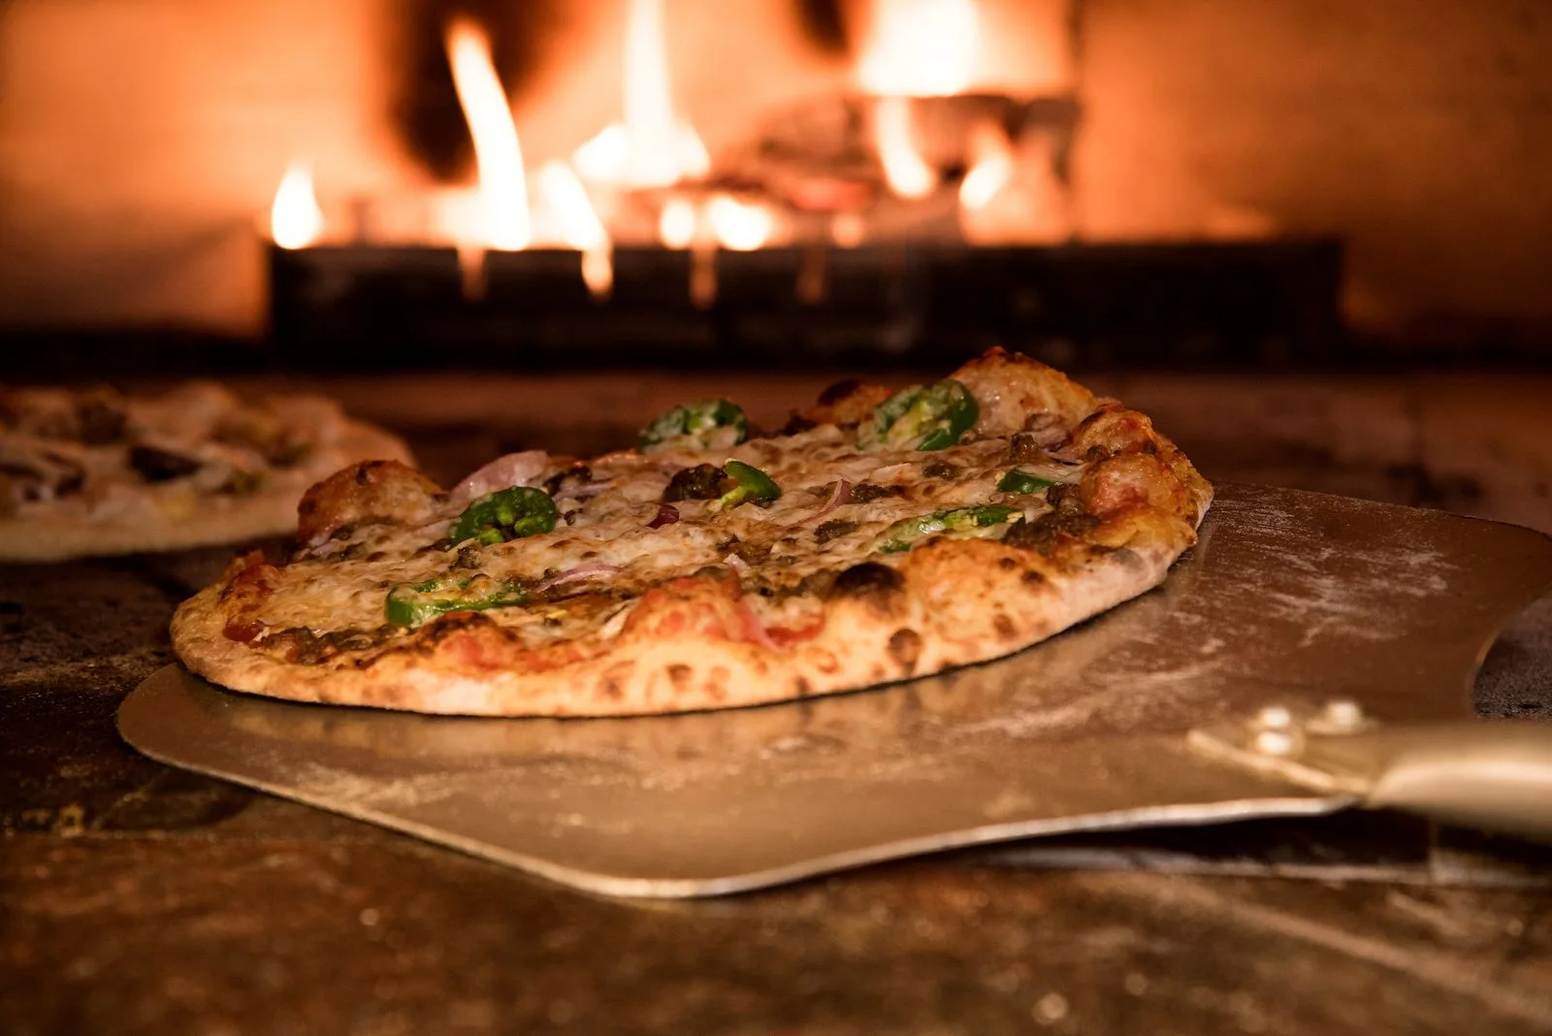
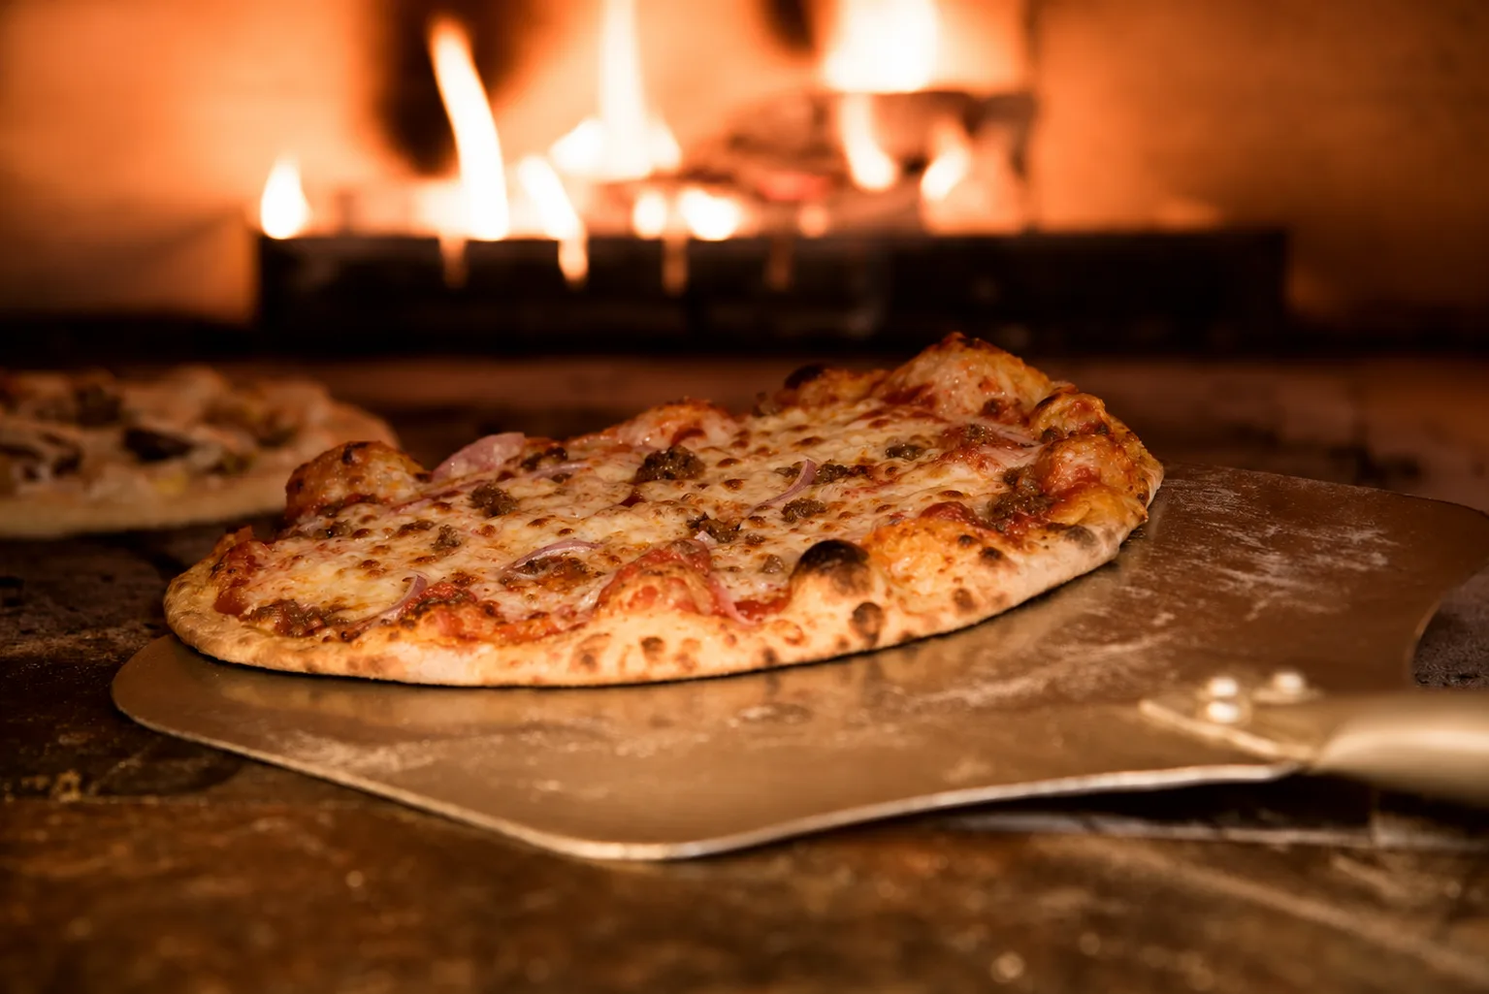
Use current Toast menu, refine responsive layout and edit pizza hero

diff --git a/index.html b/index.html
@@ -15,17 +15,17 @@
 <link rel="stylesheet" href="styles.css">
 <script src="script.js" defer>
 </script>
-<script type="application/ld+json">{"@context": "https://schema.org", "@type": "Restaurant", "name": "Cascarino\u2019s Brick Oven Pizzeria & Ristorante", "telephone": "+1-718-746-4370", "address": {"@type": "PostalAddress", "streetAddress": "152-59 10th Avenue", "addressLocality": "Whitestone", "addressRegion": "NY", "postalCode": "11357", "addressCountry": "US"}, "servesCuisine": ["Pizza", "Italian"], "hasMenu": "https://www.cascarinosmenu.com/"}</script>
+<script type="application/ld+json">{"@context": "https://schema.org", "@type": "Restaurant", "name": "Cascarino\u2019s Brick Oven Pizzeria & Ristorante", "telephone": "+1-718-746-4370", "address": {"@type": "PostalAddress", "streetAddress": "152-59 10th Avenue", "addressLocality": "Whitestone", "addressRegion": "NY", "postalCode": "11357", "addressCountry": "US"}, "servesCuisine": ["Pizza", "Italian"], "hasMenu": "https://toast.app/r/cascarinos-brick-oven-pizzeria-ristorante-152-59-10th-ave/order"}</script>
 </head>
 <body>
 <a href="#main" class="skip">Skip to content</a>
-<header class="header"><a class="wordmark" href="index.html">Cascarino’s<span>WHITESTONE, QUEENS</span></a><nav class="desktop-nav" aria-label="Main navigation"><a href="#menu">Menu</a><a href="#table">Group orders</a><a href="#visit">Visit</a><a href="tel:+17187464370">718 746 4370</a></nav><a class="button header-order" href="https://www.cascarinosmenu.com/">Order online</a><button class="menu-toggle" aria-controls="mobile-nav" aria-expanded="false">Menu +</button><nav id="mobile-nav" class="mobile-nav" aria-label="Mobile navigation" hidden><a href="#menu">Menu</a><a href="#table">Group orders</a><a href="#visit">Visit</a><a href="tel:+17187464370">Call 718 746 4370</a><a href="https://www.cascarinosmenu.com/">Order online</a></nav></header>
+<header class="header"><a class="wordmark" href="index.html">Cascarino’s<span>WHITESTONE, QUEENS</span></a><nav class="desktop-nav" aria-label="Main navigation"><a href="#menu">Menu</a><a href="#table">Group orders</a><a href="#visit">Visit</a><a href="tel:+17187464370">718 746 4370</a></nav><a class="button header-order" href="https://toast.app/r/cascarinos-brick-oven-pizzeria-ristorante-152-59-10th-ave/order">Order on Toast</a><button class="menu-toggle" aria-controls="mobile-nav" aria-expanded="false">Menu +</button><nav id="mobile-nav" class="mobile-nav" aria-label="Mobile navigation" hidden><a href="#menu">Menu</a><a href="#table">Group orders</a><a href="#visit">Visit</a><a href="tel:+17187464370">Call 718 746 4370</a><a href="https://toast.app/r/cascarinos-brick-oven-pizzeria-ristorante-152-59-10th-ave/order">Order on Toast</a></nav></header>
 <main id="main">
-<section class="hero" aria-labelledby="hero-title"><div class="hero-title"><p class="eyebrow">BRICK OVEN PIZZERIA & RISTORANTE</p><h1 id="hero-title">Pizza.<br>Pasta.<br><i>Cascarino’s.</i></h1><div class="hero-bottom"><p>152-59 10th Avenue<br>Whitestone, New York</p><a href="#menu" class="text-link">Explore the menu <span aria-hidden="true">↓</span></a></div></div><figure class="hero-art"><img src="assets/oven.webp" alt="Illustrative food photography: pizza baking in a wood-fired oven" width="1600" height="1068" fetchpriority="high"><figcaption>BRICK OVEN PIZZA · ITALIAN FAVORITES</figcaption></figure></section>
-<div class="service-strip"><span>TAKEOUT</span><span>DELIVERY</span><span>DINE IN</span><a href="https://www.cascarinosmenu.com/">Order from the full menu <span aria-hidden="true">↗</span></a></div>
-<section class="menu-section section-pad" id="menu" aria-labelledby="menu-title"><div class="section-heading"><p class="eyebrow">ON THE MENU</p><h2 id="menu-title">The pie you know.<br>The plate you came for.</h2><p>Cheese pies, Grandma squares, pasta and Italian-American favorites. Browse a few selections below, or head straight to the full menu.</p></div><div class="menu-layout"><div class="menu-browser"><div class="filters" role="group" aria-label="Choose a menu category"><button class="filter active" data-category="pizza" aria-pressed="true">Pizza</button><button class="filter" data-category="pasta" aria-pressed="false">Pasta & plates</button><button class="filter" data-category="sides" aria-pressed="false">Starters & sweets</button></div><div id="menu-list" aria-live="polite" aria-atomic="true"></div><p class="menu-footnote">Current prices, sizes and availability are on the ordering menu. For food allergies, please call before ordering.</p><a class="button" href="https://www.cascarinosmenu.com/">View full menu & order</a><noscript><p>Browse the full menu using the link above, or call (718) 746-4370.</p></noscript></div><figure class="menu-photo"><img src="assets/pasta.webp" alt="Illustrative food photography: a plate of tomato pasta" width="1600" height="1065" loading="lazy"><figcaption>PIZZERIA & RISTORANTE</figcaption></figure></div></section>
-<section class="table-section" id="table" aria-labelledby="table-title"><div class="table-copy"><p class="eyebrow">FEEDING A FEW MORE?</p><h2 id="table-title">Make it<br>a table full.</h2><p>Ordering for family, friends or the office? Call us to talk through the food, quantities and pickup timing.</p><a class="button light" href="tel:+17187464370">Call about a group order</a><a class="table-phone" href="tel:+17187464370">718 746 4370</a></div><figure class="table-photo"><img src="assets/dough.webp" alt="Illustrative food photography: preparing pizza dough by hand" width="1060" height="1600" loading="lazy"></figure></section>
+<section class="hero" aria-labelledby="hero-title"><div class="hero-title"><p class="eyebrow">BRICK OVEN PIZZERIA & RISTORANTE</p><h1 id="hero-title">Pizza.<br>Pasta.<br><i>Cascarino’s.</i></h1><div class="hero-bottom"><p>152-59 10th Avenue<br>Whitestone, New York</p><a href="#menu" class="text-link">Explore the menu <span aria-hidden="true">↓</span></a></div></div><figure class="hero-art"><img src="assets/oven.webp" alt="Illustrative food photography: pizza baking in a wood-fired oven" width="1536" height="1024" fetchpriority="high"><figcaption>BRICK OVEN PIZZA · ITALIAN FAVORITES</figcaption></figure></section>
+<div class="service-strip"><span>TAKEOUT</span><span>DELIVERY</span><span>DINE IN</span><a href="https://toast.app/r/cascarinos-brick-oven-pizzeria-ristorante-152-59-10th-ave/order">Pickup & delivery on Toast <span aria-hidden="true">↗</span></a></div>
+<section class="menu-section section-pad" id="menu" aria-labelledby="menu-title"><div class="section-heading"><p class="eyebrow">ON THE MENU</p><h2 id="menu-title">Pizza, pasta<br>and the rest.</h2><p>Browse a selection from our Toast menu. Choose pickup or delivery when you order.</p></div><div class="menu-layout"><div class="menu-browser"><div class="filters" role="group" aria-label="Choose a menu category"><button class="filter active" data-category="pizza" aria-pressed="true">Pizza</button><button class="filter" data-category="pasta" aria-pressed="false">Pasta & plates</button><button class="filter" data-category="sides" aria-pressed="false">Starters & sweets</button></div><div id="menu-list" aria-live="polite" aria-atomic="true"></div><p class="menu-footnote">Menu selection checked November 15, 2026. Current prices, sizes and availability are on Toast. For food allergies, please call before ordering.</p><a class="button" href="https://toast.app/r/cascarinos-brick-oven-pizzeria-ristorante-152-59-10th-ave/order">Full menu & ordering on Toast</a><noscript><p>Browse the full menu using the link above, or call (718) 746-4370.</p></noscript></div><figure class="menu-photo"><img src="assets/pasta.webp" alt="Illustrative food photography: a plate of tomato pasta" width="1600" height="1065" loading="lazy"><figcaption>PIZZERIA & RISTORANTE</figcaption></figure></div></section>
+<section class="table-section" id="table" aria-labelledby="table-title"><div class="table-copy"><p class="eyebrow">FEEDING A FEW MORE?</p><h2 id="table-title">For your<br>whole table.</h2><p>Ordering for family, friends or the office? Call us to talk through the food, quantities and pickup timing.</p><a class="button light" href="tel:+17187464370">Call about a group order</a><a class="table-phone" href="tel:+17187464370">718 746 4370</a></div><figure class="table-photo"><img src="assets/dough.webp" alt="Illustrative food photography: preparing pizza dough by hand" width="1060" height="1600" loading="lazy"></figure></section>
 <section id="visit" class="visit section-pad" aria-labelledby="visit-title"><div><p class="eyebrow">FIND US IN WHITESTONE</p><h2 id="visit-title">On 10th Avenue.</h2></div><div class="visit-details"><address>152-59 10th Avenue<br>Whitestone, NY 11357</address><p>Online ordering: daily, 10:45 AM–8:45 PM.<br>Call to confirm dine-in and holiday hours.</p><div class="visit-actions"><a class="button" href="https://www.google.com/maps/search/?api=1&query=Cascarinos+152-59+10th+Ave+Whitestone+NY+11357">Get directions</a><a class="text-link" href="tel:+17187464370">718 746 4370</a></div></div></section>
-<section class="final-cta"><p>TAKEOUT OR DELIVERY</p><a href="https://www.cascarinosmenu.com/">Dinner starts here. <span aria-hidden="true">↗</span></a></section>
-</main><footer><a class="wordmark" href="index.html">Cascarino’s<span>BRICK OVEN PIZZERIA & RISTORANTE</span></a><div class="footer-bottom"><span>© <span id="year">2026</span> Cascarino’s</span><div><a href="privacy.html">Privacy</a><a href="accessibility.html">Accessibility</a><a href="#main">Back to top ↑</a></div></div><p class="photo-note">Editorial food photographs are illustrative, not photographs of Cascarino’s dishes or kitchen. <a href="photography.html">Photo credits</a></p></footer><div class="mobile-order"><a href="tel:+17187464370">Call</a><a href="https://www.cascarinosmenu.com/">Order online</a></div>
+<section class="final-cta"><p>TAKEOUT OR DELIVERY</p><a href="https://toast.app/r/cascarinos-brick-oven-pizzeria-ristorante-152-59-10th-ave/order">Dinner starts here. <span aria-hidden="true">↗</span></a></section>
+</main><footer><a class="wordmark" href="index.html">Cascarino’s<span>BRICK OVEN PIZZERIA & RISTORANTE</span></a><div class="footer-bottom"><span>© <span id="year">2026</span> Cascarino’s</span><div><a href="privacy.html">Privacy</a><a href="accessibility.html">Accessibility</a><a href="#main">Back to top ↑</a></div></div><p class="photo-note">Editorial food photographs are illustrative, not photographs of Cascarino’s dishes or kitchen. <a href="photography.html">Photo credits</a></p></footer><div class="mobile-order"><a href="tel:+17187464370">Call</a><a href="https://toast.app/r/cascarinos-brick-oven-pizzeria-ristorante-152-59-10th-ave/order">Order on Toast</a></div>
 </body></html>

diff --git a/styles.css b/styles.css
@@ -4,3 +4,13 @@
 @media(max-width:760px){html{scroll-padding-top:90px}.header{padding:18px 22px;gap:12px}.wordmark{font-size:31px}.wordmark span{font-size:7px}.desktop-nav,.header-order{display:none}.menu-toggle{display:block;border:1px solid var(--line);background:transparent;padding:10px 15px;min-height:44px;font-size:12px}.mobile-nav{position:absolute;top:100%;left:0;right:0;background:var(--paper);padding:18px 22px;box-shadow:0 20px 25px #0001}.mobile-nav a{display:block;padding:13px 0;border-bottom:1px solid var(--line)}.hero{display:flex;flex-direction:column;min-height:0}.hero-title{padding:34px 22px 30px}.hero h1{font-size:clamp(73px,15.5vw,115px);line-height:.88;margin:26px 0}.hero h1 br:nth-of-type(1){display:none}.hero-bottom{flex-direction:row;align-items:end;gap:15px}.hero-bottom p{font-size:11px}.hero-bottom .text-link{font-size:11px;gap:15px}.hero-art{height:390px;min-height:0;margin:0 14px 14px}.hero-art figcaption{padding:45px 20px 20px;font-size:9px}.service-strip{flex-wrap:wrap;padding:20px 22px;gap:18px;font-size:10px;justify-content:space-between}.service-strip a{width:100%;padding-top:15px;border-top:1px solid var(--line)}.section-pad{padding:55px 22px}.section-heading{display:block;margin-bottom:30px}.section-heading h2{font-size:48px;margin:18px 0}.section-heading>p:last-child{font-size:13px;max-width:420px}.menu-layout{display:flex;flex-direction:column-reverse;gap:30px}.menu-photo img{min-height:0;height:330px;object-position:50% 47%}.filters{gap:22px}.filter{font-size:12px}.menu-item{padding:18px 0}.menu-item h3{font-size:27px}.menu-item p{font-size:12px}.table-section{grid-template-columns:1fr}.table-copy{padding:50px 22px}.table-copy h2{font-size:70px}.table-photo{height:370px}.table-photo img{object-position:50% 40%}.visit{grid-template-columns:1fr;gap:30px}.visit h2{font-size:52px}.visit address{font-size:29px}.visit-actions{gap:22px}.final-cta{display:block;padding:40px 22px}.final-cta>a{display:block;margin-top:20px;font-size:47px}footer{padding:40px 22px 110px}.footer-bottom{flex-direction:column;gap:20px}.photo-note{font-size:10px}.mobile-order{display:flex;position:fixed;bottom:0;left:0;right:0;z-index:25;background:var(--paper);border-top:1px solid var(--line);padding:10px 14px calc(10px + env(safe-area-inset-bottom));gap:10px}.mobile-order a{flex:1;text-align:center;border:1px solid var(--red);color:var(--red);padding:12px;font-size:13px;font-weight:700}.mobile-order a:last-child{flex:2;background:var(--red);color:white}.legal h1{font-size:50px}}
 @media(max-width:380px){.hero h1{font-size:72px}.hero h1 br:nth-of-type(1){display:block}.hero-art{height:320px}.filters{gap:15px}.filter{font-size:11px}.visit-actions{gap:15px}.footer-bottom>div{gap:16px}}
 @media(prefers-reduced-motion:reduce){html{scroll-behavior:auto}*,*:before,*:after{animation:none!important;transition:none!important}}
+
+/* Responsive polish: readable wrapping, safe fixed controls, restrained motion. */
+.hero-art img,.table-photo img,.menu-photo img{transition:transform .7s cubic-bezier(.2,.7,.2,1)}
+@media(hover:hover) and (prefers-reduced-motion:no-preference){.hero-art:hover img,.table-photo:hover img,.menu-photo:hover img{transform:scale(1.025)}}
+.button:active,.mobile-order a:active{transform:translateY(1px)}
+.hero-title,.menu-browser,.visit-details,.table-copy{min-width:0}
+.menu-item h3{overflow-wrap:anywhere;padding-right:28px}
+@media(max-width:760px){.hero h1{font-size:clamp(66px,14vw,105px)}.hero-art{height:clamp(280px,84vw,440px)}.hero-art img{object-position:52% 50%}.filters{gap:8px 22px}.filter{min-height:48px}.mobile-order a{min-height:48px}.menu-toggle{min-width:64px}.hero-bottom{flex-wrap:wrap}.mobile-nav{max-height:calc(100dvh - 160px);overflow:auto}.menu-photo img{height:clamp(260px,80vw,390px)}.final-cta>a{overflow-wrap:anywhere}}
+@media(max-width:380px){.hero h1{font-size:66px}.hero-title{padding-top:28px}.wordmark{font-size:28px}.header{padding-inline:18px}}
+@media(prefers-reduced-motion:reduce){.hero-art img,.table-photo img,.menu-photo img{transform:none!important;transition:none!important}}

diff --git a/script.js b/script.js
@@ -1,5 +1,5 @@
 'use strict';
-const categories={pizza:[['Cheese Pizza','The classic starting point.'],['Margherita','Tomato, mozzarella and basil.'],['Cascarino’s Famous Grandma','A square-pie favorite from the menu.'],['MVP Grandma','Marinara, vodka and pesto on one pie.']],pasta:[['Penne Vodka','A familiar favorite for pasta night.'],['Linguine with Clams','Choose red or white sauce.'],['Chicken Scarpariello','An Italian-American dinner classic.'],['Homemade Lasagna','For when only baked pasta will do.']],sides:[['Garlic Knots','Start with something for the table.'],['Calamari Fritti','With marinara or fra diavolo.'],['Cannoli','A little sweetness to finish.'],['Tiramisu','Save the last forkful for yourself.']]};
+const categories={pizza:[['16” Cheese Pizza','A classic cheese pie.'],['Margherita Pizza','From the specialty pizza selection.'],['Grandma Pizza','A square pie from the Toast menu.'],['Vodka Grandma Pizza','A vodka-sauce square pie.']],pasta:[['Penne Vodka','Available on the current Toast menu.'],['Spicy Rigatoni','For a pasta order with a little heat.'],['Homemade Lasagna','A baked pasta favorite.'],['Chicken Parmigiana','An Italian-American classic.']],sides:[['Arancini','Start with something for the table.'],['Calamari Fritti','From the appetizer selection.'],['Garlic Knots','Add a side to your order.'],['Cannoli & Tiramisu','Something sweet to finish.']]};
 const list=document.getElementById('menu-list');
 function showMenu(category){if(!list||!categories[category])return;list.replaceChildren(...categories[category].map((item,i)=>{const article=document.createElement('article');article.className='menu-item';const number=document.createElement('span');number.className='item-number';number.textContent=`0${i+1}`;number.setAttribute('aria-hidden','true');const title=document.createElement('h3');title.textContent=item[0];const description=document.createElement('p');description.textContent=item[1];article.append(number,title,description);return article;}));document.querySelectorAll('.filter').forEach(button=>{const active=button.dataset.category===category;button.classList.toggle('active',active);button.setAttribute('aria-pressed',String(active));});}
 document.querySelectorAll('.filter').forEach(button=>button.addEventListener('click',()=>showMenu(button.dataset.category)));showMenu('pizza');
@@ -7,3 +7,9 @@ const toggle=document.querySelector('.menu-toggle'),nav=document.getElementById(
 function closeMenu(restoreFocus=false){if(!toggle||!nav)return;toggle.setAttribute('aria-expanded','false');nav.hidden=true;if(restoreFocus)toggle.focus();}
 if(toggle&&nav){toggle.addEventListener('click',()=>{const open=toggle.getAttribute('aria-expanded')==='true';toggle.setAttribute('aria-expanded',String(!open));nav.hidden=open;});nav.querySelectorAll('a').forEach(a=>a.addEventListener('click',()=>closeMenu()));document.addEventListener('keydown',event=>{if(event.key==='Escape')closeMenu(true);});document.addEventListener('click',event=>{if(!event.target.closest('.header'))closeMenu();});window.matchMedia('(min-width: 761px)').addEventListener('change',event=>{if(event.matches)closeMenu();});}
 const year=document.getElementById('year');if(year)year.textContent=new Date().getFullYear();
+
+const motion=window.matchMedia?.('(prefers-reduced-motion: reduce)');
+if(!motion?.matches && typeof IntersectionObserver !== 'undefined'){
+ const observer=new IntersectionObserver(entries=>{entries.forEach(entry=>{if(entry.isIntersecting){entry.target.animate([{transform:'translateY(18px)'},{transform:'translateY(0)'}],{duration:550,easing:'cubic-bezier(.2,.7,.2,1)'});observer.unobserve(entry.target);}})},{threshold:.12});
+ document.querySelectorAll('.section-heading,.table-copy,.visit-details').forEach(el=>observer.observe(el));
+}

diff --git a/photography.html b/photography.html
@@ -1,1 +1,1 @@
-<!doctype html><html lang="en"><head><meta charset="utf-8"><meta name="viewport" content="width=device-width,initial-scale=1"><meta name="robots" content="noindex,nofollow"><title>Photography | Cascarino’s</title><link rel="stylesheet" href="styles.css"></head><body><main class="legal"><a href="index.html">Back to Cascarino’s</a><h1>Photography</h1><p>The editorial food photographs on this site are illustrative. They are not photographs of Cascarino’s dishes, staff or kitchen.</p><h2>Photo credits</h2><p>Pizza in the oven: <a href="https://www.pexels.com/photo/baked-pizza-on-pizza-peel-in-oven-905847/">Eneida Nieves / Pexels</a>.</p><p>Pasta: <a href="https://www.pexels.com/photo/penne-all-amatriciana-pasta-food-tomaten-11654235/">adrian vieriu / Pexels</a>.</p><p>Preparing dough: <a href="https://unsplash.com/photos/person-holding-dough-4yzEtTQLdL4">Arturrro / Unsplash</a>.</p><p>Used under the <a href="https://www.pexels.com/license/">Pexels license</a> and <a href="https://unsplash.com/license">Unsplash license</a>. No endorsement by the photographers is implied.</p></main></body></html>
+<!doctype html><html lang="en"><head><meta charset="utf-8"><meta name="viewport" content="width=device-width,initial-scale=1"><meta name="robots" content="noindex,nofollow"><title>Photography | Cascarino’s</title><link rel="stylesheet" href="styles.css"></head><body><main class="legal"><a href="index.html">Back to Cascarino’s</a><h1>Photography</h1><p>The editorial food photographs on this site are illustrative. They are not photographs of Cascarino’s dishes, staff or kitchen.</p><h2>Photo credits</h2><p>Pizza in the oven: <a href="https://www.pexels.com/photo/baked-pizza-on-pizza-peel-in-oven-905847/">Eneida Nieves / Pexels</a>. The hero image was edited with AI to remove green vegetable toppings; it remains illustrative, not a photograph of a Cascarino’s dish.</p><p>Pasta: <a href="https://www.pexels.com/photo/penne-all-amatriciana-pasta-food-tomaten-11654235/">adrian vieriu / Pexels</a>.</p><p>Preparing dough: <a href="https://unsplash.com/photos/person-holding-dough-4yzEtTQLdL4">Arturrro / Unsplash</a>.</p><p>Used under the <a href="https://www.pexels.com/license/">Pexels license</a> and <a href="https://unsplash.com/license">Unsplash license</a>. No endorsement by the photographers is implied.</p></main></body></html>

diff --git a/menu.html b/menu.html
@@ -13,7 +13,7 @@
 <h1>The menu</h1>
 <p>Explore brick oven pies, squares, Italian favorites and dessert.</p>
 <p>
-<a class="button" href="https://www.cascarinosmenu.com/">View the current menu & order ↗</a>
+<a class="button" href="https://toast.app/r/cascarinos-brick-oven-pizzeria-ristorante-152-59-10th-ave/order">View the current menu & order ↗</a>
 </p>
 <p>For questions about food allergies, call <a href="tel:+17187464370">(718) 746-4370</a> before ordering.</p>
 </main>

diff --git a/SOURCES.md b/SOURCES.md
@@ -4,11 +4,11 @@ Checked November 15, 2026.
 
 ## Correct restaurant
 
-Existing user repo `Madmonk2523/Cascarinos` identifies 152-59 10th Avenue, Whitestone NY 11357. Matched to the restaurant’s Slice storefront https://www.cascarinosmenu.com/ and Toast listing https://toast.app/r/cascarinos-brick-oven-pizzeria-ristorante-152-59-10th-ave/order . Telephone (718) 746-4370.
+Existing user repo `Madmonk2523/Cascarinos` identifies 152-59 10th Avenue, Whitestone NY 11357. User correction on November 15: cascarinosmenu.com belongs to previous owners and is inactive/unused. Do not link or derive current menu from it. Matched the current Toast listing https://toast.app/r/cascarinos-brick-oven-pizzeria-ristorante-152-59-10th-ave/order . Telephone (718) 746-4370.
 
 ## Menu and hours
 
-Menu names from https://www.cascarinosmenu.com/ and https://ordering.slicelife.com/restaurants/ny/whitestone/11357/cascarino-s-pizza/menu . Prices deliberately omitted because duplicate menu entries differ and platform prices may change. Displayed hours explicitly describe online ordering (10:45 AM–8:45 PM daily), not guaranteed dine-in hours; visitors are told to call for holiday/dine-in hours. Current payment, delivery, pickup choices remain with the restaurant’s ordering service.
+Current menu names verified from https://toast.app/r/cascarinos-brick-oven-pizzeria-ristorante-152-59-10th-ave/order on November 15, 2026, matching the exact Whitestone street address. All pickup/delivery buttons route directly to Toast. Prices omitted so Toast stays authoritative. Ordering hours shown on Toast daily 10:45 AM–8:45 PM; not guaranteed dine-in/holiday hours. Old Slice menus are superseded and must not be used for current content.
 
 ## Historical photos (superseded)
 
@@ -27,4 +27,4 @@ Original source photography has varying resolution; not portrayed as a new photo
 No current owner names, founding date, Mets/Citi Field affiliations, social handle, awards or customer quotations were reliably confirmed. College Point Cascarino’s history must not be merged with Whitestone. No old repo review quotes or unsourced menu prices carried forward. No claim of fresh dough daily, family ownership or legal accessibility compliance.
 
 ## November 15 editorial redesign
-Licensed illustrative photography replaces the earlier images; these are not Cascarino’s actual dishes or kitchen. See photography.html for exact source URLs and licenses. Local WebP files preserve the source content, with resizing/compression only. No fabricated reviews, venue photographs or founding claims added.
+Licensed illustrative photography replaces the earlier images; these are not Cascarino’s actual dishes or kitchen. See photography.html for exact source URLs and licenses. The oven image was AI-edited at Chase’s request on November 15 to remove green vegetable toppings; disclosed on the photography credits page. Other local WebP files preserve source content with resizing/compression only. No fabricated reviews, venue photographs or founding claims added.
